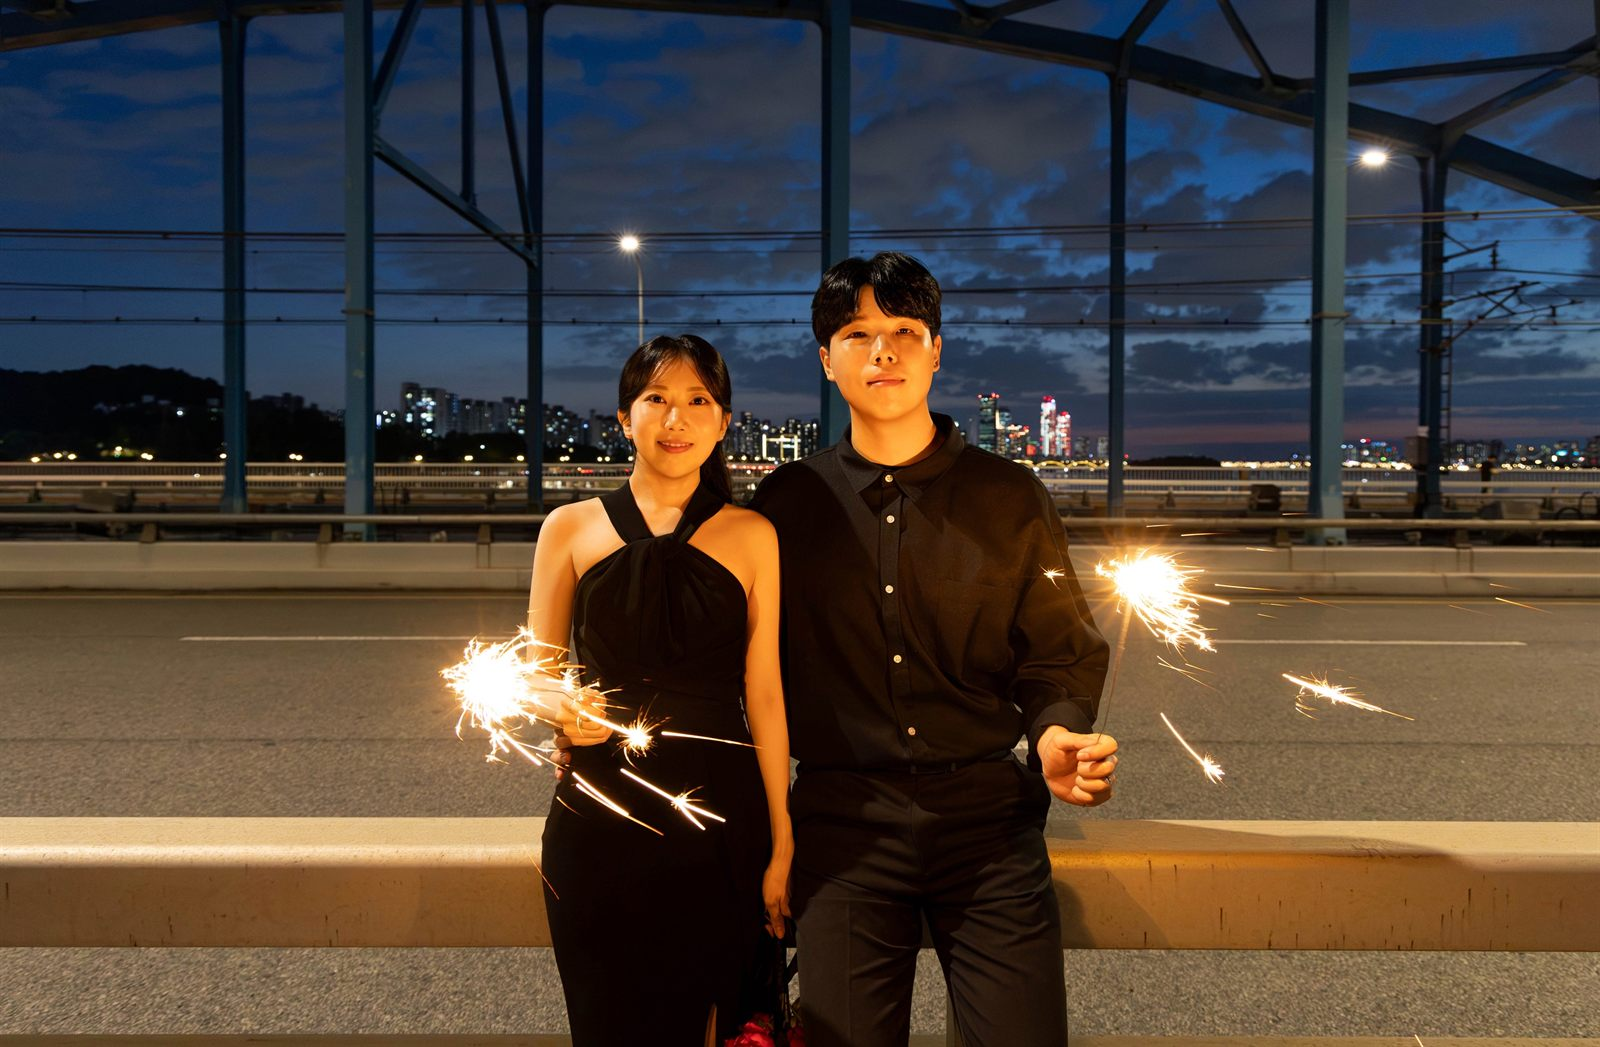
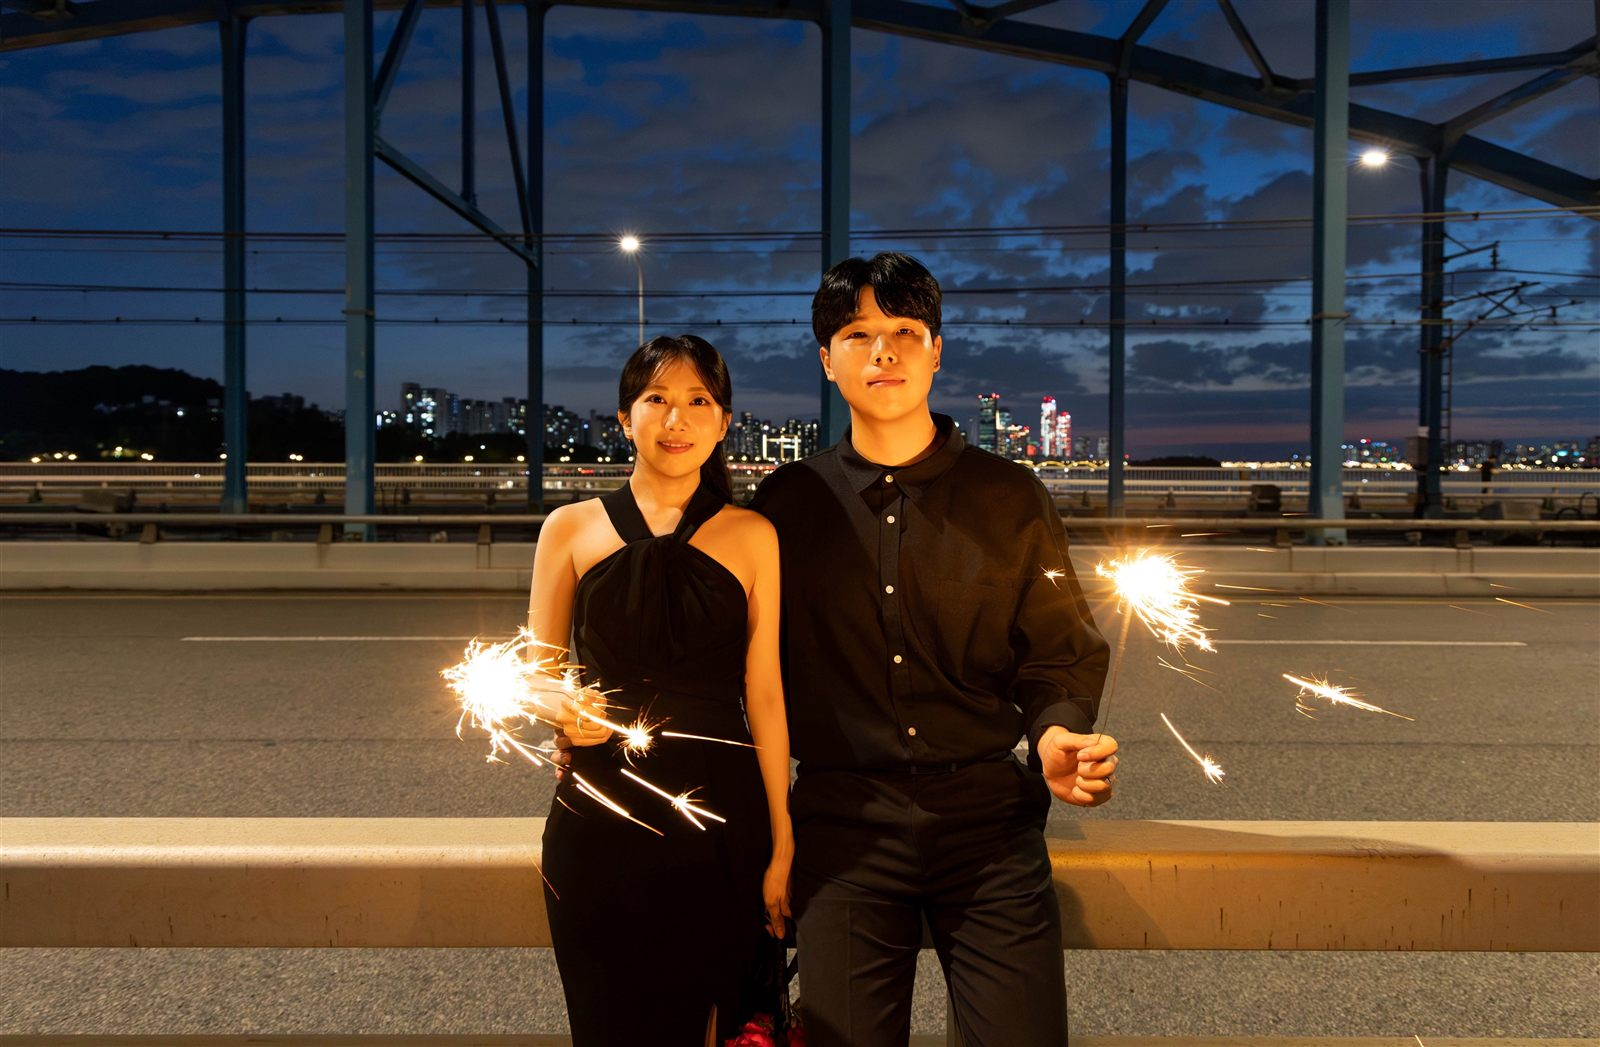
초대글 문구 변경 및 gallery22 사진 교체

diff --git a/index.html b/index.html
@@ -84,13 +84,12 @@
   <section class="block center">
     <span class="eyebrow lined">INVITATION</span>
     <p class="quote reveal">
-      서로의 이름을 부르는 것만으로도<br>
-      사랑의 깊이를 확인할 수 있는<br>
-      저희 두 사람이 결혼식을 올리게 되었습니다.<br><br>
-      평생 서로를 귀하게 여기며,<br>
-      첫 마음 그대로 존중하고 배려하며 살겠습니다.<br><br>
-      오로지 믿음과 사랑을 약속하는 날,<br>
-      오셔서 축복해 주시면 큰 기쁨으로 간직하겠습니다.
+      계절이 바뀌어도 변함없는 온기로<br>
+      서로의 곁을 지키겠다고 약속합니다.<br><br>
+      함께 쌓아온 시간만큼 깊어진 마음을 담아<br>
+      이제 두 사람이 같은 곳을 바라보며 나아가려 합니다.<br><br>
+      저희의 소중한 첫걸음에 함께하시어<br>
+      따뜻한 축복으로 자리를 빛내주시면 감사하겠습니다.
     </p>
 
     <div class="family-line reveal">
